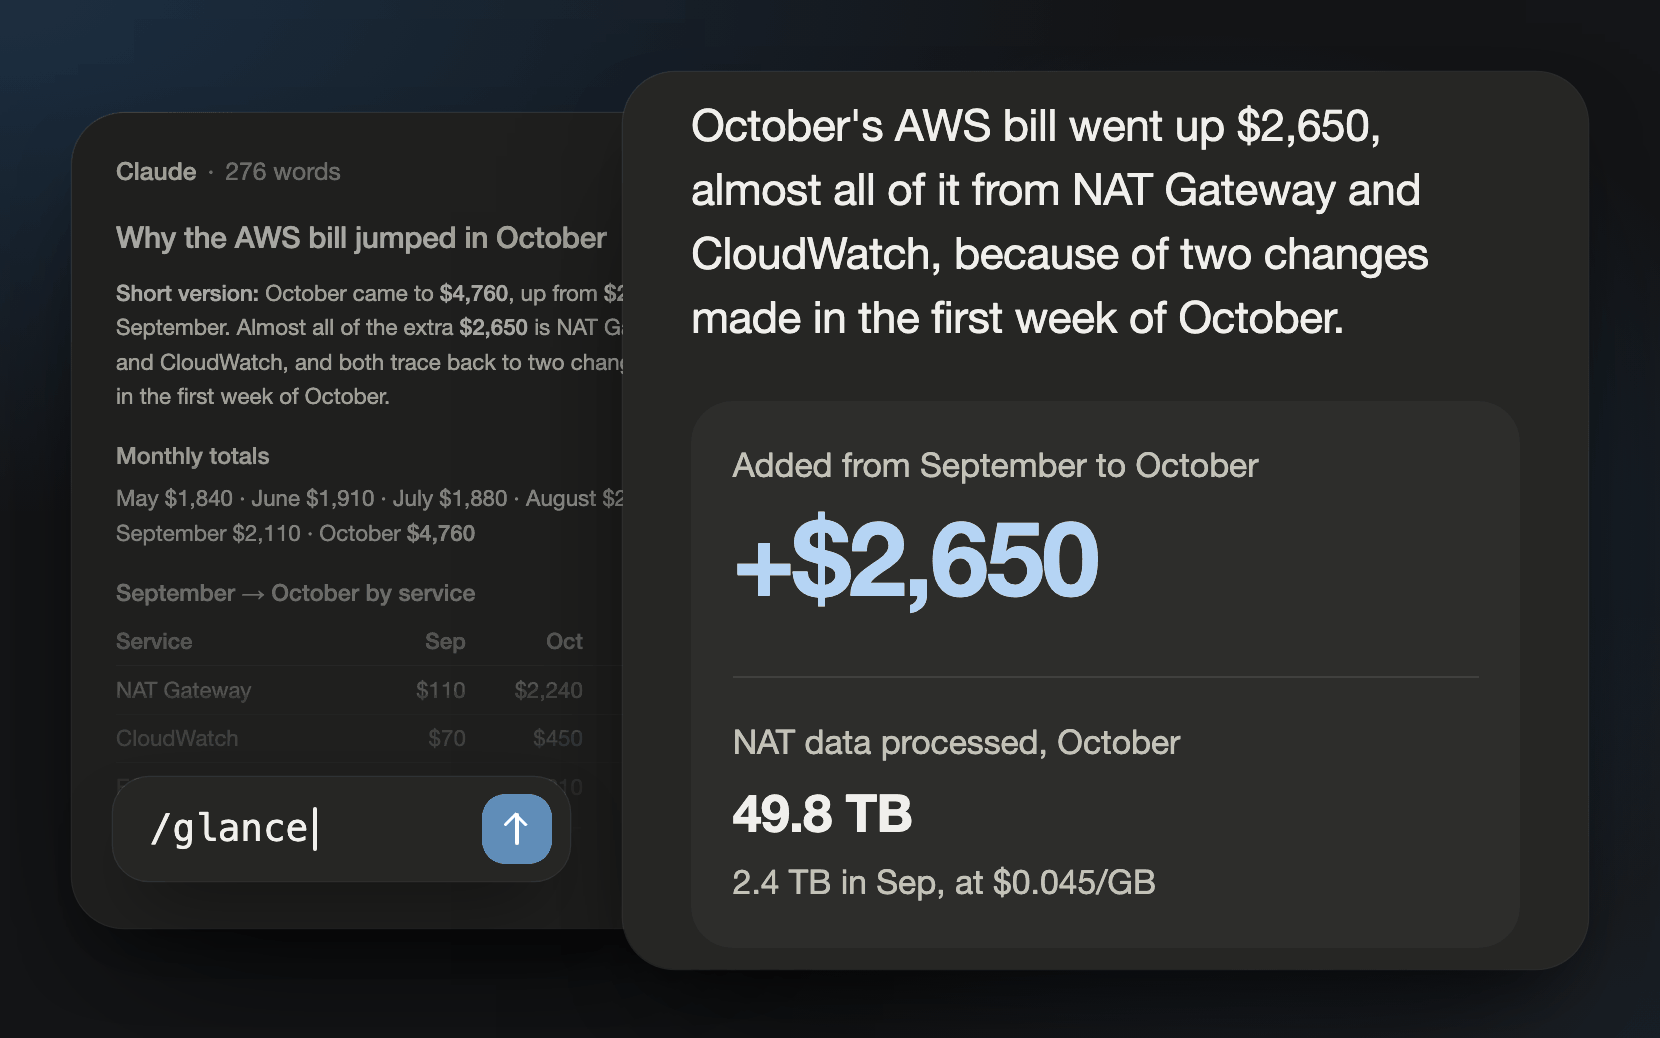
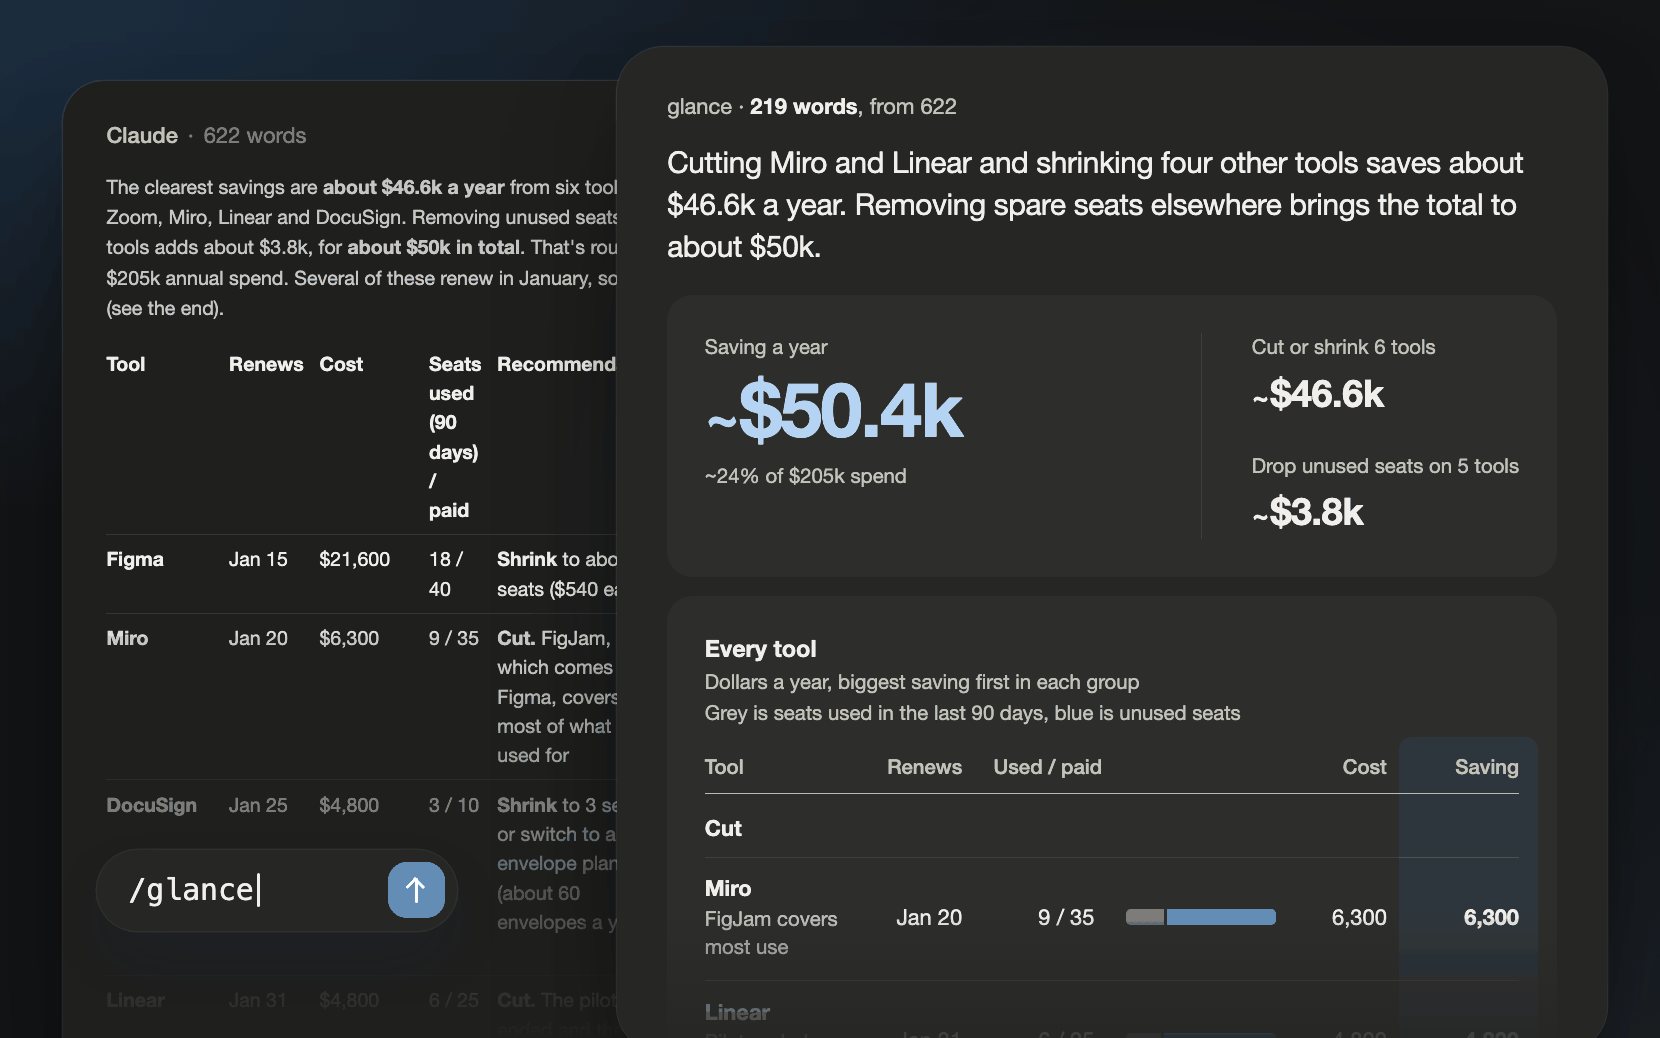
README: a before → after hero
Stock Claude's 622-word renewal answer with its crushed table, next to
glance's 219-word reply of the same answer: the headline saving and the
start of the table, in light and dark.

diff --git a/README.md b/README.md
@@ -1,6 +1,6 @@
 <picture>
   <source media="(prefers-color-scheme: dark)" srcset="docs/images/hero-dark.png">
-  <img alt="A long Claude answer about an AWS bill, 276 words, fades into the background. Someone types /glance, and in front of it is glance's reply: October's AWS bill went up $2,650, almost all of it from NAT Gateway and CloudWatch, because of two changes made in the first week of October. Below the sentence, two headline figures on a grey card: +$2,650 added from September to October, large and blue, and 49.8 TB of NAT data processed in October, from 2.4 TB in September, at $0.045/GB." src="docs/images/hero-light.png" width="100%">
+  <img alt="Before and after. On the left, stock Claude's 622-word answer about which SaaS subscriptions to cut: a lead paragraph, then a markdown table so crowded that the header Seats used (90 days) / paid wraps onto five lines and each row runs four lines tall. Someone types /glance. On the right, in front, glance's reply, 219 words from 622: Cutting Miro and Linear and shrinking four other tools saves about $46.6k a year. Removing spare seats elsewhere brings the total to about $50k. Below it, the saving a year, about $50.4k, large and blue, about 24% of $205k spend, beside about $46.6k from cutting or shrinking 6 tools and about $3.8k from dropping unused seats on 5 tools. Then the start of a table of every tool, grouped by what to do: under Cut, Miro, FigJam covers most use, renews Jan 20, 9 of 35 seats used with a bar of used seats in grey and unused in blue, cost 6,300, saving 6,300." src="docs/images/hero-light.png" width="100%">
 </picture>
 
 # glance
